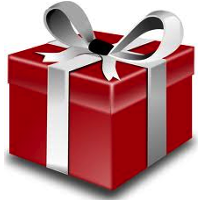
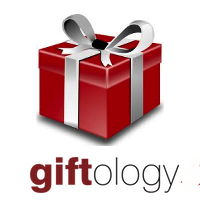
Always use default giftology fb image

diff --git a/app/Controller/UsersController.php b/app/Controller/UsersController.php
@@ -152,11 +152,11 @@ class UsersController extends AppController {
 	    } else {
 		$this->set('fb_title', "Giftology | The hip, new way to say Happy Birthday");
 	    }
-	    if (isset($image)) {
-		$this->set('fb_image', FULL_BASE_URL.'/'.$image);
-	    } else {
+	    //if (isset($image)) {
+		//$this->set('fb_image', FULL_BASE_URL.'/'.$image);
+	    //} else {
 		$this->set('fb_image', FULL_BASE_URL.'/'.IMAGES_URL.'default_fb_image.png');		
-	    }
+	    //}
 	    $this->set('fb_description', "Giftology: Instantly send free and paid digital gift vouchers to facebook friends on their birthday.");
 
 	    //set utm source if set
